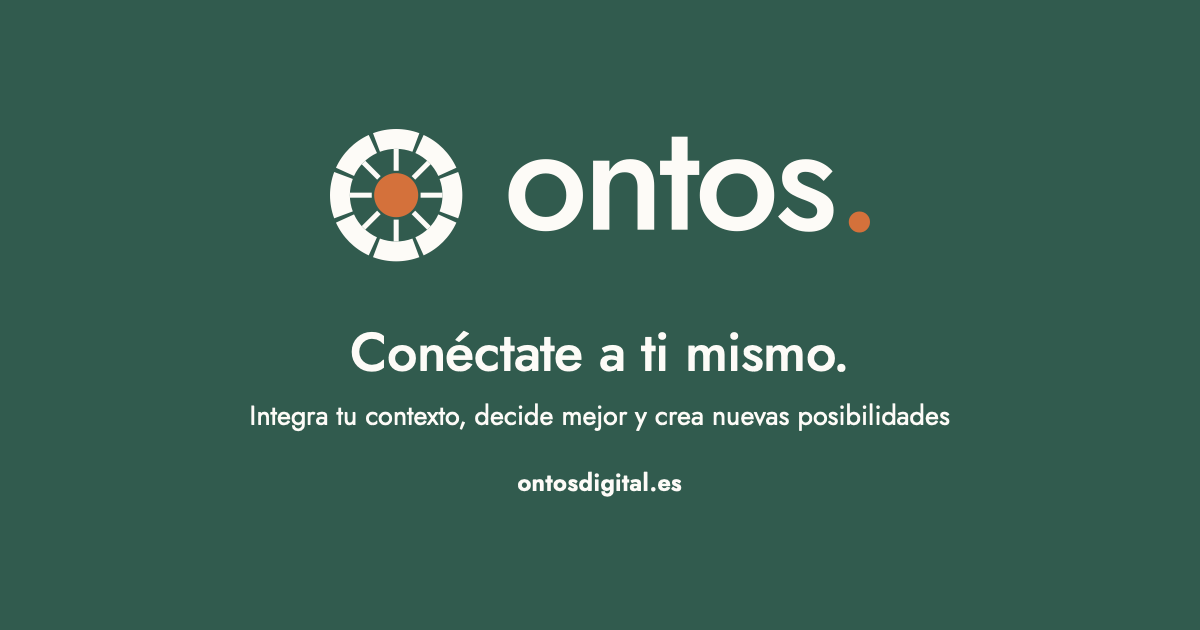
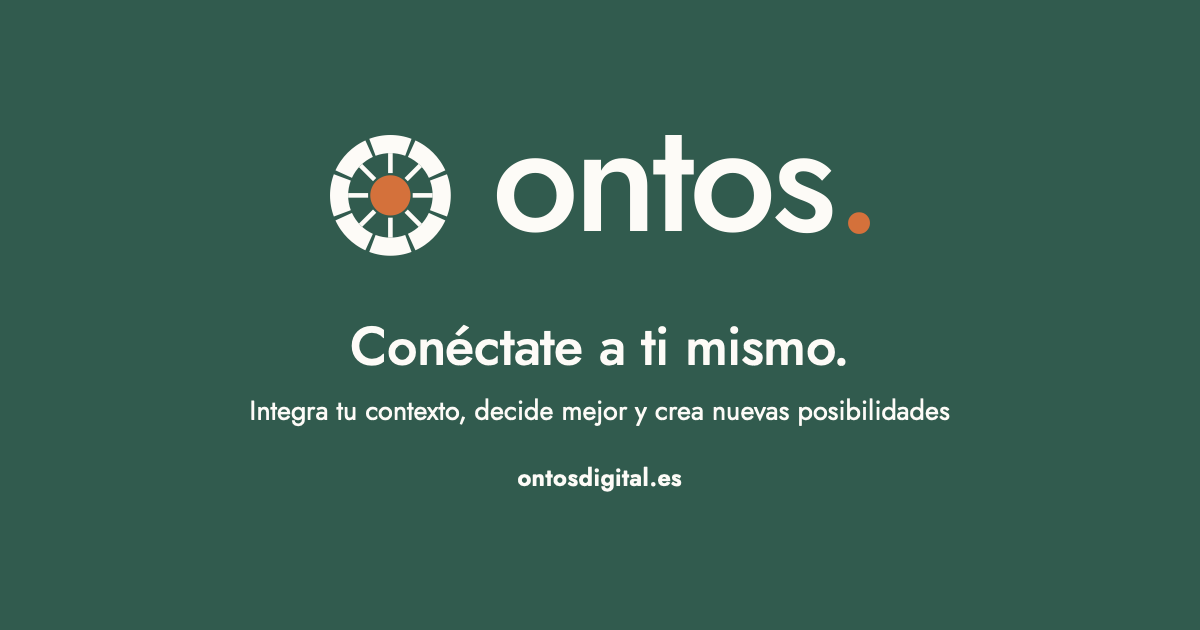
content: marca con el isotipo del imagotipo de la o a la t (manual 3.1.1.3, opción B)

diff --git a/brand/canon/tokens.css b/brand/canon/tokens.css
@@ -94,7 +94,7 @@ html[data-ontos-web]{
 --web-mix-muted:var(--ds-web-mix-muted);
 --web-green-muted:var(--ds-web-green-muted);
 --web-home-surface:var(--ds-web-home-surface);
---web-logo-horizontal-min:411px;
+--web-logo-horizontal-min:449px;
 --web-logo-icon-min:115px;
 --web-logo-wordmark-min:120px;
 --web-logo-leading-space:14.8492px;
